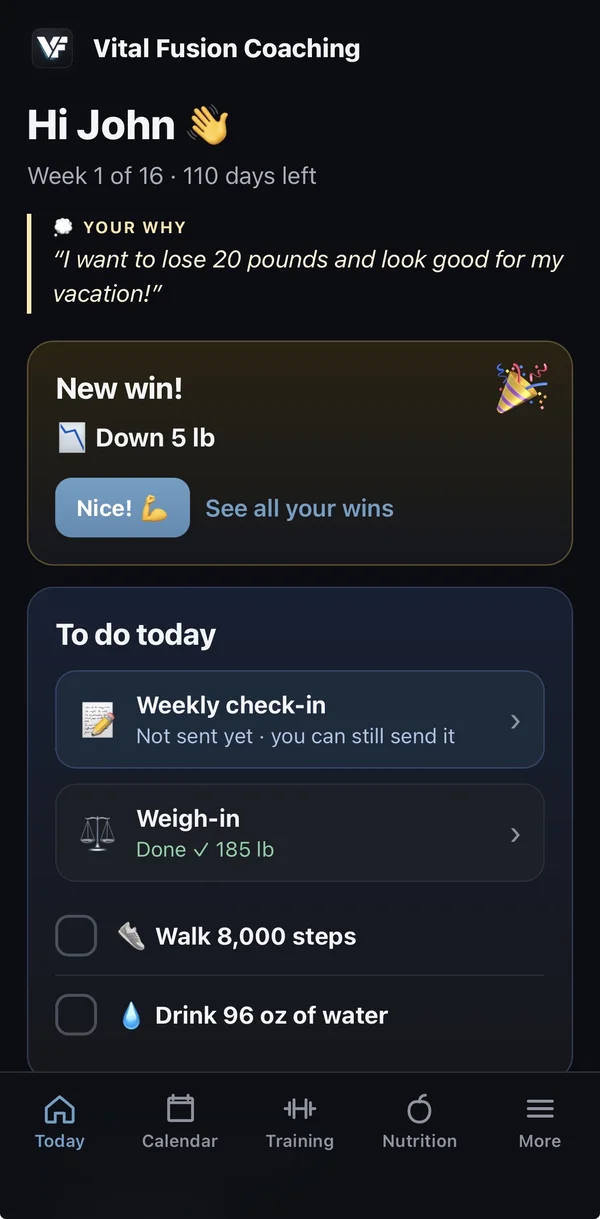
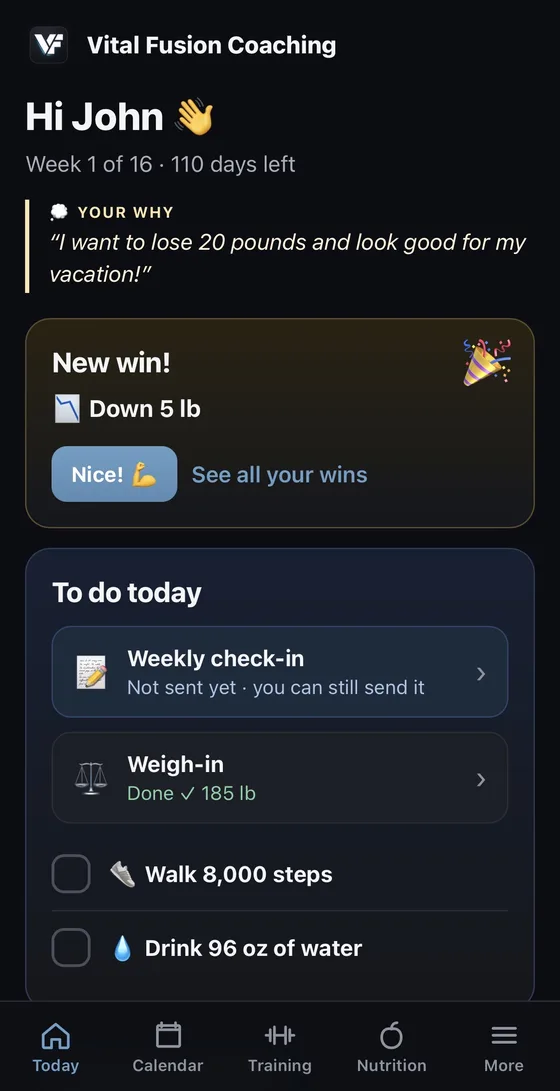
Homepage: swipeable app tour, no sticky bar, no hero paragraph
Claude-Session: https://claude.ai/code/session_01ATDF7KcLBm1u6hAGC7kXwY

diff --git a/app/globals.css b/app/globals.css
@@ -377,7 +377,7 @@ input:focus, textarea:focus { border-color: var(--accent); box-shadow: 0 0 0 3px
 .lp-hero::after { content: ""; position: absolute; inset: auto 0 0 0; height: 120px; background: linear-gradient(transparent, var(--lp-bg)); pointer-events: none; }
 .lp-hero .lp-inner { position: relative; z-index: 1; }
 .hero-eyebrow { margin: 0 0 16px; color: var(--text-2); font-size: 11px; font-weight: 700; letter-spacing: 0.1em; text-transform: uppercase; }
-.hero-title { font-size: clamp(36px, 10.4vw, 66px); line-height: 1.04; letter-spacing: -0.035em; font-weight: 800; margin: 0 0 16px; }
+.hero-title { font-size: clamp(36px, 10.4vw, 66px); line-height: 1.04; letter-spacing: -0.035em; font-weight: 800; margin: 0 0 26px; }
 .hero-title .accent { display: block; color: var(--accent-hi, #8fbddf); text-shadow: 0 0 40px rgba(106, 159, 198, 0.35); }
 .hero-sub { color: var(--text-2); font-size: 17px; line-height: 1.6; margin: 0 auto 26px; max-width: 32em; }
 .lp-hero .cta { margin-top: 22px; }
@@ -442,6 +442,23 @@ input:focus, textarea:focus { border-color: var(--accent); box-shadow: 0 0 0 3px
 .get-list p { margin: 0; color: var(--text-3); font-size: 15px; line-height: 1.5; }
 .phone { justify-self: center; width: min(280px, 72%); aspect-ratio: 9 / 18.5; border-radius: 38px; padding: 10px; background: #1a1d24; border: 1px solid #343944; box-shadow: 0 40px 80px -30px rgba(0,0,0,0.9), 0 0 80px -30px rgba(106,159,198,0.45); }
 .phone img { width: 100%; height: 100%; object-fit: cover; object-position: top; border-radius: 30px; display: block; }
+/* App tour: swipe the phone screens */
+.tour { display: grid; justify-items: center; gap: 16px; }
+.tour-stage { display: flex; align-items: center; gap: 10px; width: 100%; justify-content: center; }
+.tour .phone { width: min(280px, 70vw); flex: none; overflow: hidden; }
+.tour-track { display: flex; width: 100%; height: 100%; overflow-x: auto; scroll-snap-type: x mandatory; border-radius: 30px; scrollbar-width: none; overscroll-behavior-x: contain; }
+.tour-track::-webkit-scrollbar { display: none; }
+.tour-track img { flex: 0 0 100%; width: 100%; height: 100%; scroll-snap-align: center; scroll-snap-stop: always; border-radius: 0; }
+.tour-arrow { display: none; width: 44px; height: 44px; border-radius: 50%; border: 1px solid #2a3446; background: #151922; color: var(--text); font-size: 26px; line-height: 1; cursor: pointer; }
+.tour-arrow:hover { border-color: #6a9fc6; color: #8fbddf; }
+.tour-caption { text-align: center; max-width: 340px; min-height: 104px; }
+.tour-count { margin: 0 0 6px; color: #8fbddf; font-size: 12px; font-weight: 800; letter-spacing: 0.16em; }
+.tour-caption h3 { margin: 0 0 6px; font-size: 21px; letter-spacing: -0.01em; }
+.tour-caption p { margin: 0; color: var(--text-3); line-height: 1.5; font-size: 15px; }
+.tour-dots { display: flex; gap: 8px; }
+.tour-dots button { width: 8px; height: 8px; padding: 0; border: 0; border-radius: 99px; background: #2f3745; cursor: pointer; transition: width 0.2s ease, background 0.2s ease; }
+.tour-dots button.on { width: 22px; background: #6a9fc6; }
+.tour-hint { margin: 0; color: var(--muted); font-size: 13px; }
 
 /* Coach */
 .coach { display: grid; gap: 26px; }
@@ -485,7 +502,9 @@ input:focus, textarea:focus { border-color: var(--accent); box-shadow: 0 0 0 3px
   .feature-body { padding: 36px 40px; }
   .quotes { display: grid; grid-template-columns: 1fr 1fr; overflow: visible; margin: 18px 0 0; padding: 0; gap: 18px; }
   .quote { flex: none; }
-  .get { grid-template-columns: 1.2fr 0.8fr; gap: 48px; }
+  .get { grid-template-columns: 1.1fr 0.9fr; gap: 48px; }
+  .tour-arrow { display: grid; place-items: center; }
+  .tour-hint { display: none; }
   .get-list { grid-template-columns: 1fr 1fr; gap: 16px; }
   .get-list li { flex-direction: column; align-items: flex-start; padding: 24px; }
   .coach { grid-template-columns: 0.85fr 1.15fr; gap: 56px; align-items: center; }

diff --git a/app/components/AppTour.tsx b/app/components/AppTour.tsx
@@ -1,0 +1,66 @@
+"use client";
+
+/* eslint-disable @next/next/no-img-element */
+import { useEffect, useRef, useState } from "react";
+
+type Screen = { image: string; title: string; text: string };
+
+// Swipeable phone showing the coaching app, one feature per screen.
+// The caption under the phone changes as you swipe; dots and arrows jump between screens.
+export default function AppTour({ screens }: { screens: Screen[] }) {
+  const track = useRef<HTMLDivElement>(null);
+  const [active, setActive] = useState(0);
+
+  useEffect(() => {
+    const el = track.current;
+    if (!el) return;
+    const onScroll = () => {
+      const i = Math.round(el.scrollLeft / el.clientWidth);
+      setActive(Math.max(0, Math.min(screens.length - 1, i)));
+    };
+    el.addEventListener("scroll", onScroll, { passive: true });
+    return () => el.removeEventListener("scroll", onScroll);
+  }, [screens.length]);
+
+  function go(i: number) {
+    const el = track.current;
+    if (!el) return;
+    const n = (i + screens.length) % screens.length;
+    el.scrollTo({ left: n * el.clientWidth, behavior: "smooth" });
+  }
+
+  const s = screens[active];
+
+  return (
+    <div className="tour">
+      <div className="tour-stage">
+        <button type="button" className="tour-arrow prev" onClick={() => go(active - 1)} aria-label="Previous screen">‹</button>
+        <div className="phone">
+          <div className="tour-track" ref={track}>
+            {screens.map((sc, i) => (
+              <img key={sc.image} src={sc.image} alt={sc.title} loading={i === 0 ? "eager" : "lazy"} />
+            ))}
+          </div>
+        </div>
+        <button type="button" className="tour-arrow next" onClick={() => go(active + 1)} aria-label="Next screen">›</button>
+      </div>
+      <div className="tour-caption" aria-live="polite">
+        <p className="tour-count">{active + 1} / {screens.length}</p>
+        <h3>{s.title}</h3>
+        <p>{s.text}</p>
+      </div>
+      <div className="tour-dots">
+        {screens.map((sc, i) => (
+          <button
+            key={sc.image}
+            type="button"
+            className={i === active ? "on" : ""}
+            onClick={() => go(i)}
+            aria-label={`Show ${sc.title}`}
+          />
+        ))}
+      </div>
+      <p className="tour-hint" aria-hidden>Swipe to see more →</p>
+    </div>
+  );
+}

diff --git a/content/site.ts b/content/site.ts
@@ -16,7 +16,6 @@ export const site = {
     eyebrow: "For busy professionals who can't stay consistent",
     // Three lines; the middle one is shown in brand blue.
     headline: ["Lose your first", "15+ lbs in 90 days", "without extreme diets."],
-    sub: "A real coach builds your plan around your schedule and checks in every week, so you finally stop starting over every Monday.",
     button: "Start Now",
     note: "60-second application",
     // Holiday line under the button. Set to "" after New Year's to hide it.
@@ -81,7 +80,17 @@ export const site = {
       { icon: "chat", title: "Weekly 1:1 check-ins", text: "Plus messaging access whenever you have a question." },
       { icon: "phone", title: "The Vital Fusion app", text: "Your plan, grocery list, meals and progress in one place." },
     ],
-    appImage: "/images/app-home.webp",
+    // Swipe-through app screens (images in public/images).
+    appScreens: [
+      { image: "/images/app-home.webp", title: "Your daily dashboard", text: "Today's to-dos, your why and your latest wins, all on one screen." },
+      { image: "/images/app-grocery.webp", title: "Built-in grocery list", text: "Planned around your meal plan, so shopping is easier than ever." },
+      { image: "/images/app-training.webp", title: "Your workouts", text: "A program built for your schedule, with notes on how to progress." },
+      { image: "/images/app-meals.webp", title: "Meal library", text: "Recipes that fit your numbers. Swap any meal for another in the same group." },
+      { image: "/images/app-ai.webp", title: "AI nutrition assistant", text: "Find the best options at fast food spots when you're eating on the go." },
+      { image: "/images/app-habits.webp", title: "Habit tracking", text: "Steps, water and streaks that keep you consistent day to day." },
+      { image: "/images/app-progress.webp", title: "Progress + check-ins", text: "Your weight graph, progress photos and weekly check-ins in one place." },
+      { image: "/images/app-more.webp", title: "Everything in one app", text: "Check-ins, resources, food log and more, always one tap away." },
+    ],
   },
 
   fit: {

diff --git a/app/page.tsx b/app/page.tsx
@@ -1,7 +1,7 @@
 /* eslint-disable @next/next/no-img-element */
 import Link from "next/link";
 import { site } from "@/content/site";
-import StickyApply from "./components/StickyApply";
+import AppTour from "./components/AppTour";
 import VideoHero from "./components/VideoHero";
 import Reveal from "./components/Reveal";
 import Icon from "./components/Icon";
@@ -9,7 +9,7 @@ import Rich from "./components/Rich";
 
 // Homepage: one goal — start the application.
 // Order: video hero → 3 pillars → how it works → client results → what you get
-// → your coach → is this for you? → closing. All text comes from content/site.ts.
+// → your coach → is this for you? → closing. (No sticky button bar; Start Now repeats in the page.) All text comes from content/site.ts.
 
 function Cta({ label, note }: { label: string; note?: string }) {
   return (
@@ -41,7 +41,6 @@ export default function Home() {
             {hero.headline[0]}
             <span className="accent"> {hero.headline[1]}</span> {hero.headline[2]}
           </h1>
-          <p className="hero-sub">{hero.sub}</p>
           <VideoHero {...video} />
           <div id="hero-form">
             <Cta label={hero.button} note={hero.note} />
@@ -152,8 +151,8 @@ export default function Home() {
                 </li>
               ))}
             </ul>
-            <div className="phone reveal">
-              <img src={whatYouGet.appImage} alt="The Vital Fusion coaching app" loading="lazy" />
+            <div className="reveal">
+              <AppTour screens={whatYouGet.appScreens} />
             </div>
           </div>
         </div>
@@ -211,7 +210,6 @@ export default function Home() {
         </div>
       </section>
 
-      <StickyApply label={applyCta} />
     </main>
   );
 }

diff --git a/CLAUDE.md b/CLAUDE.md
@@ -8,15 +8,15 @@ is not a developer; explain changes plainly and keep the site simple.
   REST (`lib/store.ts`). Avoid adding dependencies unless they clearly earn their place.
 - The homepage is a video landing page (styled after a reference VSL page, in Vital Fusion colors) that only
   sells the coaching application. Order: hero (eyebrow, "Lose your first 15+ lbs in 90 days without extreme
-  diets.", Vimeo video autoplaying muted with a "Tap to watch with sound" button, Start Now, holiday line)
+  diets.", no sub-paragraph, Vimeo video autoplaying muted with a "Tap to watch with sound" button, Start Now, holiday line)
   → 3 pillars → how it works (4 steps) → client results (Charlie featured with his family quote, 2 other
-  quote cards) → what you get (+ app phone mockup) → your coach → for you / not for you → closing
+  quote cards) → what you get (+ swipeable phone `AppTour.tsx` with 8 app screenshots, caption per screen,
+  from `whatYouGet.appScreens`) → your coach → for you / not for you → closing
   ("90 days will pass either way"). Every CTA goes to `/apply`. No price, no guarantee on the page.
   "90 days" is the hook only (clients sign up for different lengths). The Vimeo id/hash live in
   `content/site.ts` → `video`. Words in *stars* in headings render in the italic accent font (Instrument
   Serif via next/font; body font Inter). Pieces: `app/components/VideoHero.tsx`, `Reveal.tsx` (scroll fade-in),
-  `Icon.tsx`, `Rich.tsx`. A phone-only sticky Start Now bar (`StickyApply.tsx`) appears after the hero button
-  scrolls away. The holiday line (`hero.holiday`) can be set to "" after New Year's.
+  `Icon.tsx`, `Rich.tsx`. No sticky Start Now bar on the homepage (Tyler's call: Start Now already repeats). The holiday line (`hero.holiday`) can be set to "" after New Year's.
 - All homepage copy lives in `content/site.ts`; layout in `app/page.tsx`; promo landing page in
   `app/vital-method/`. Images are in `public/images/`. Only add real client results and testimonials.
 - CSS is phone-first: base rules are for phones, `@media (min-width: 860px)` for desktop.
